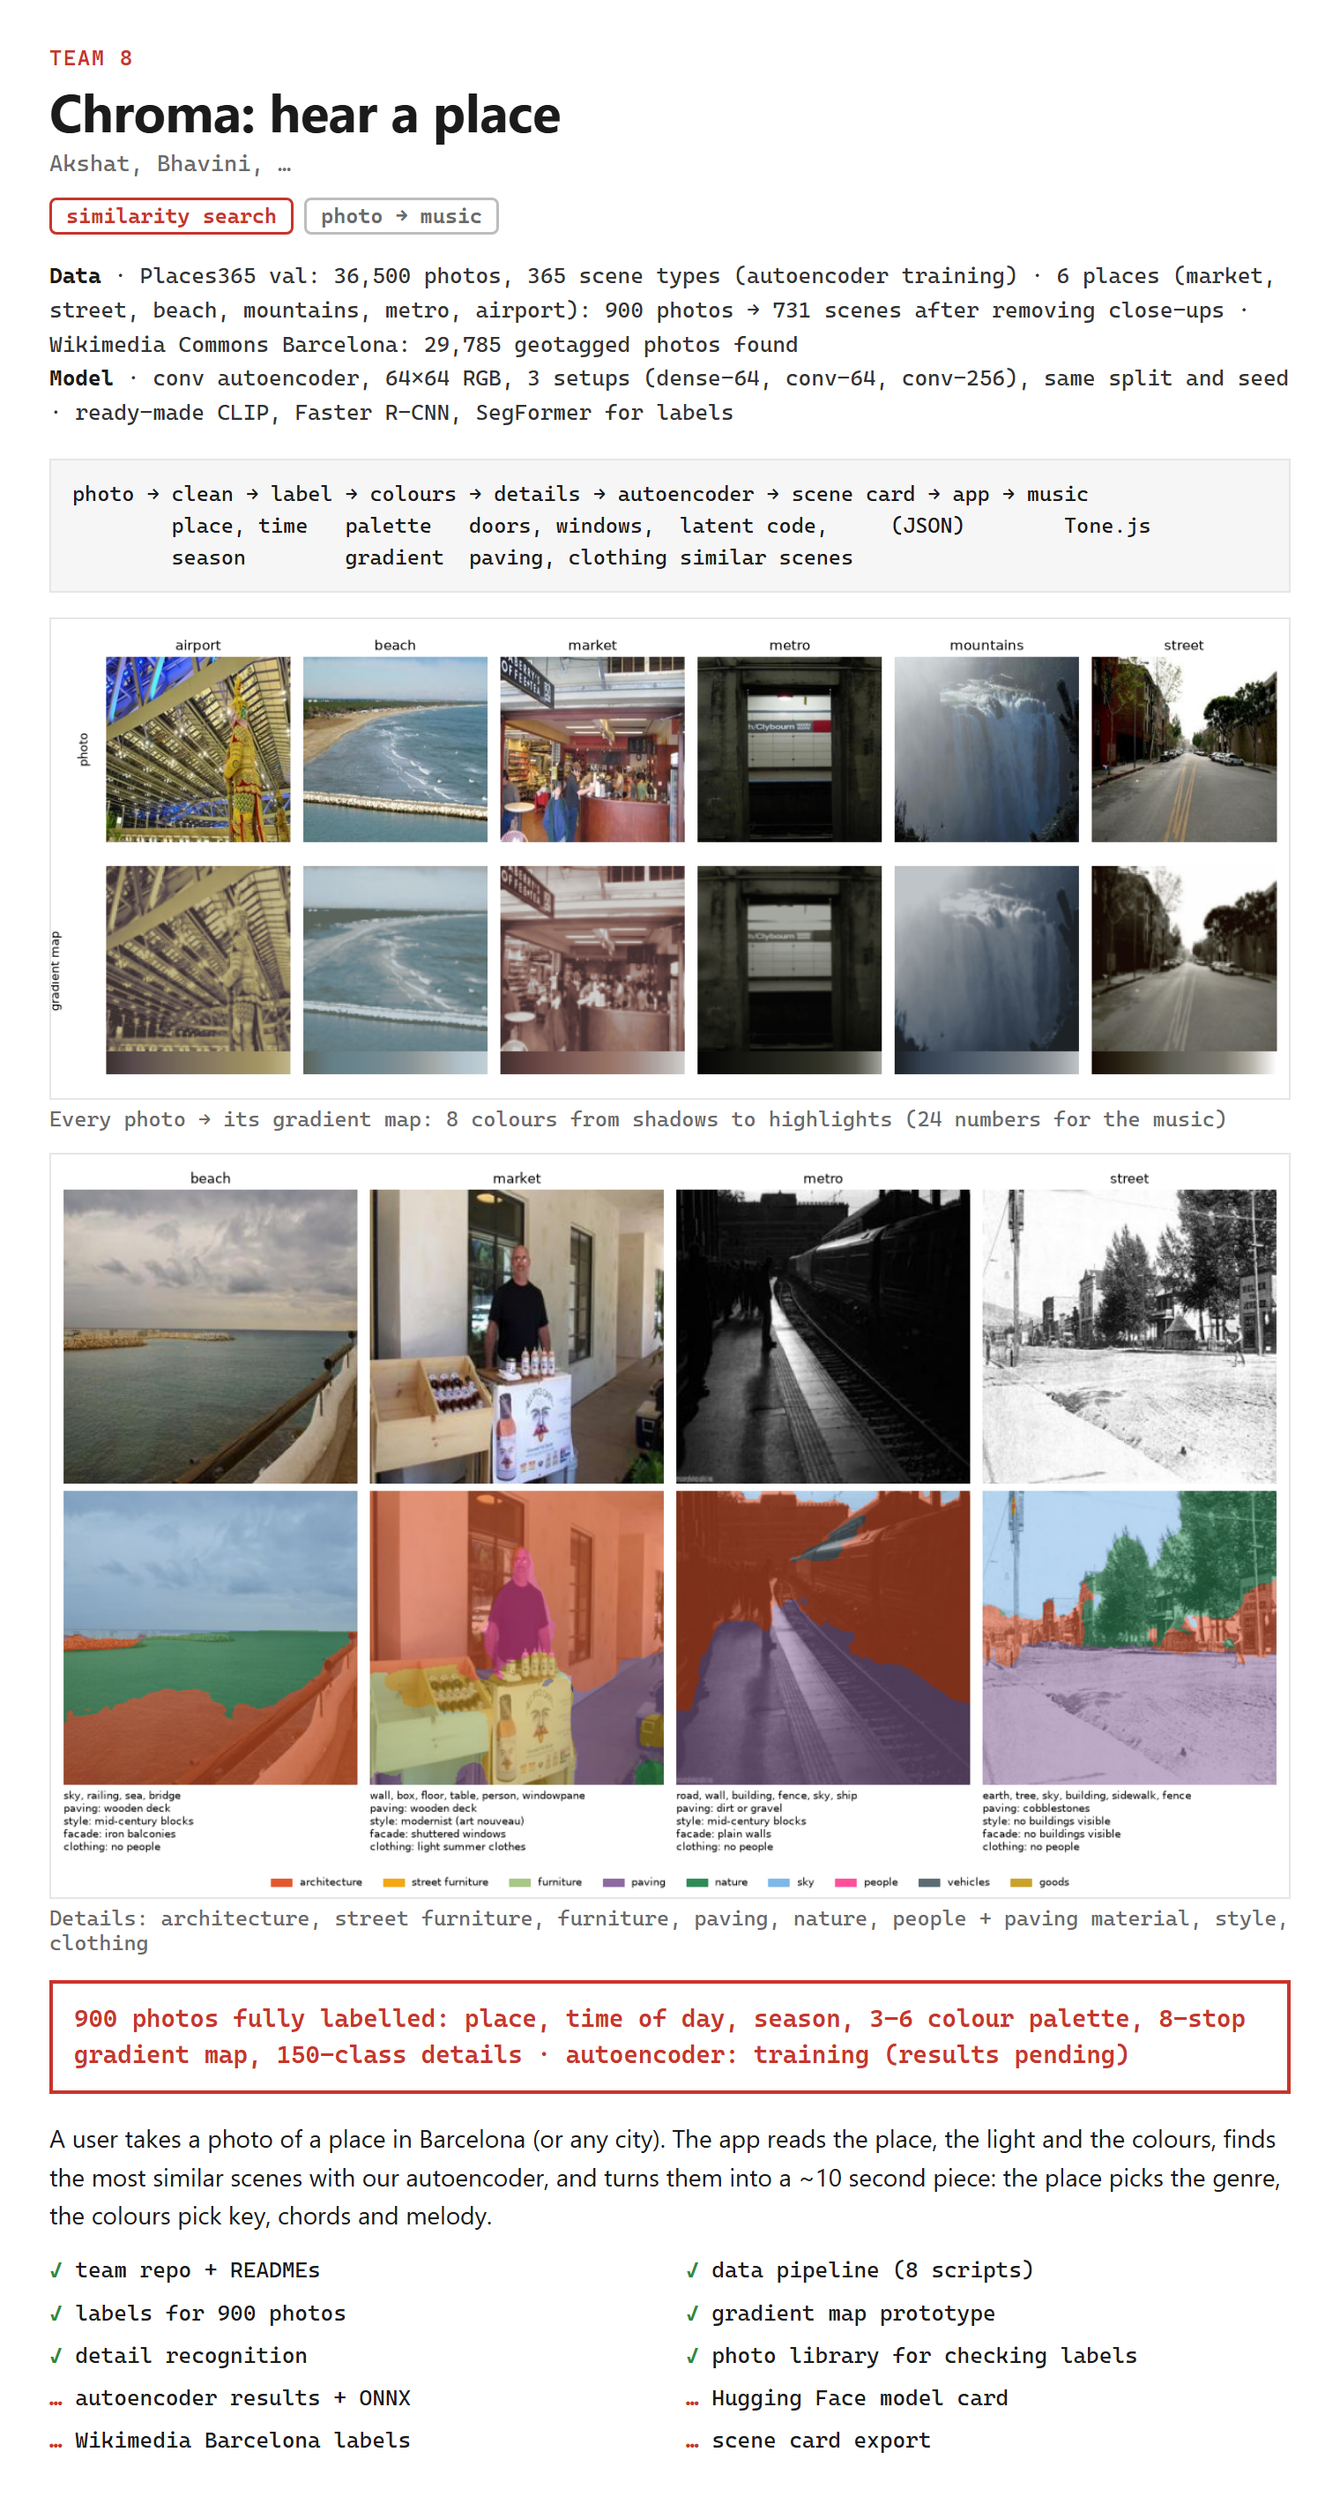
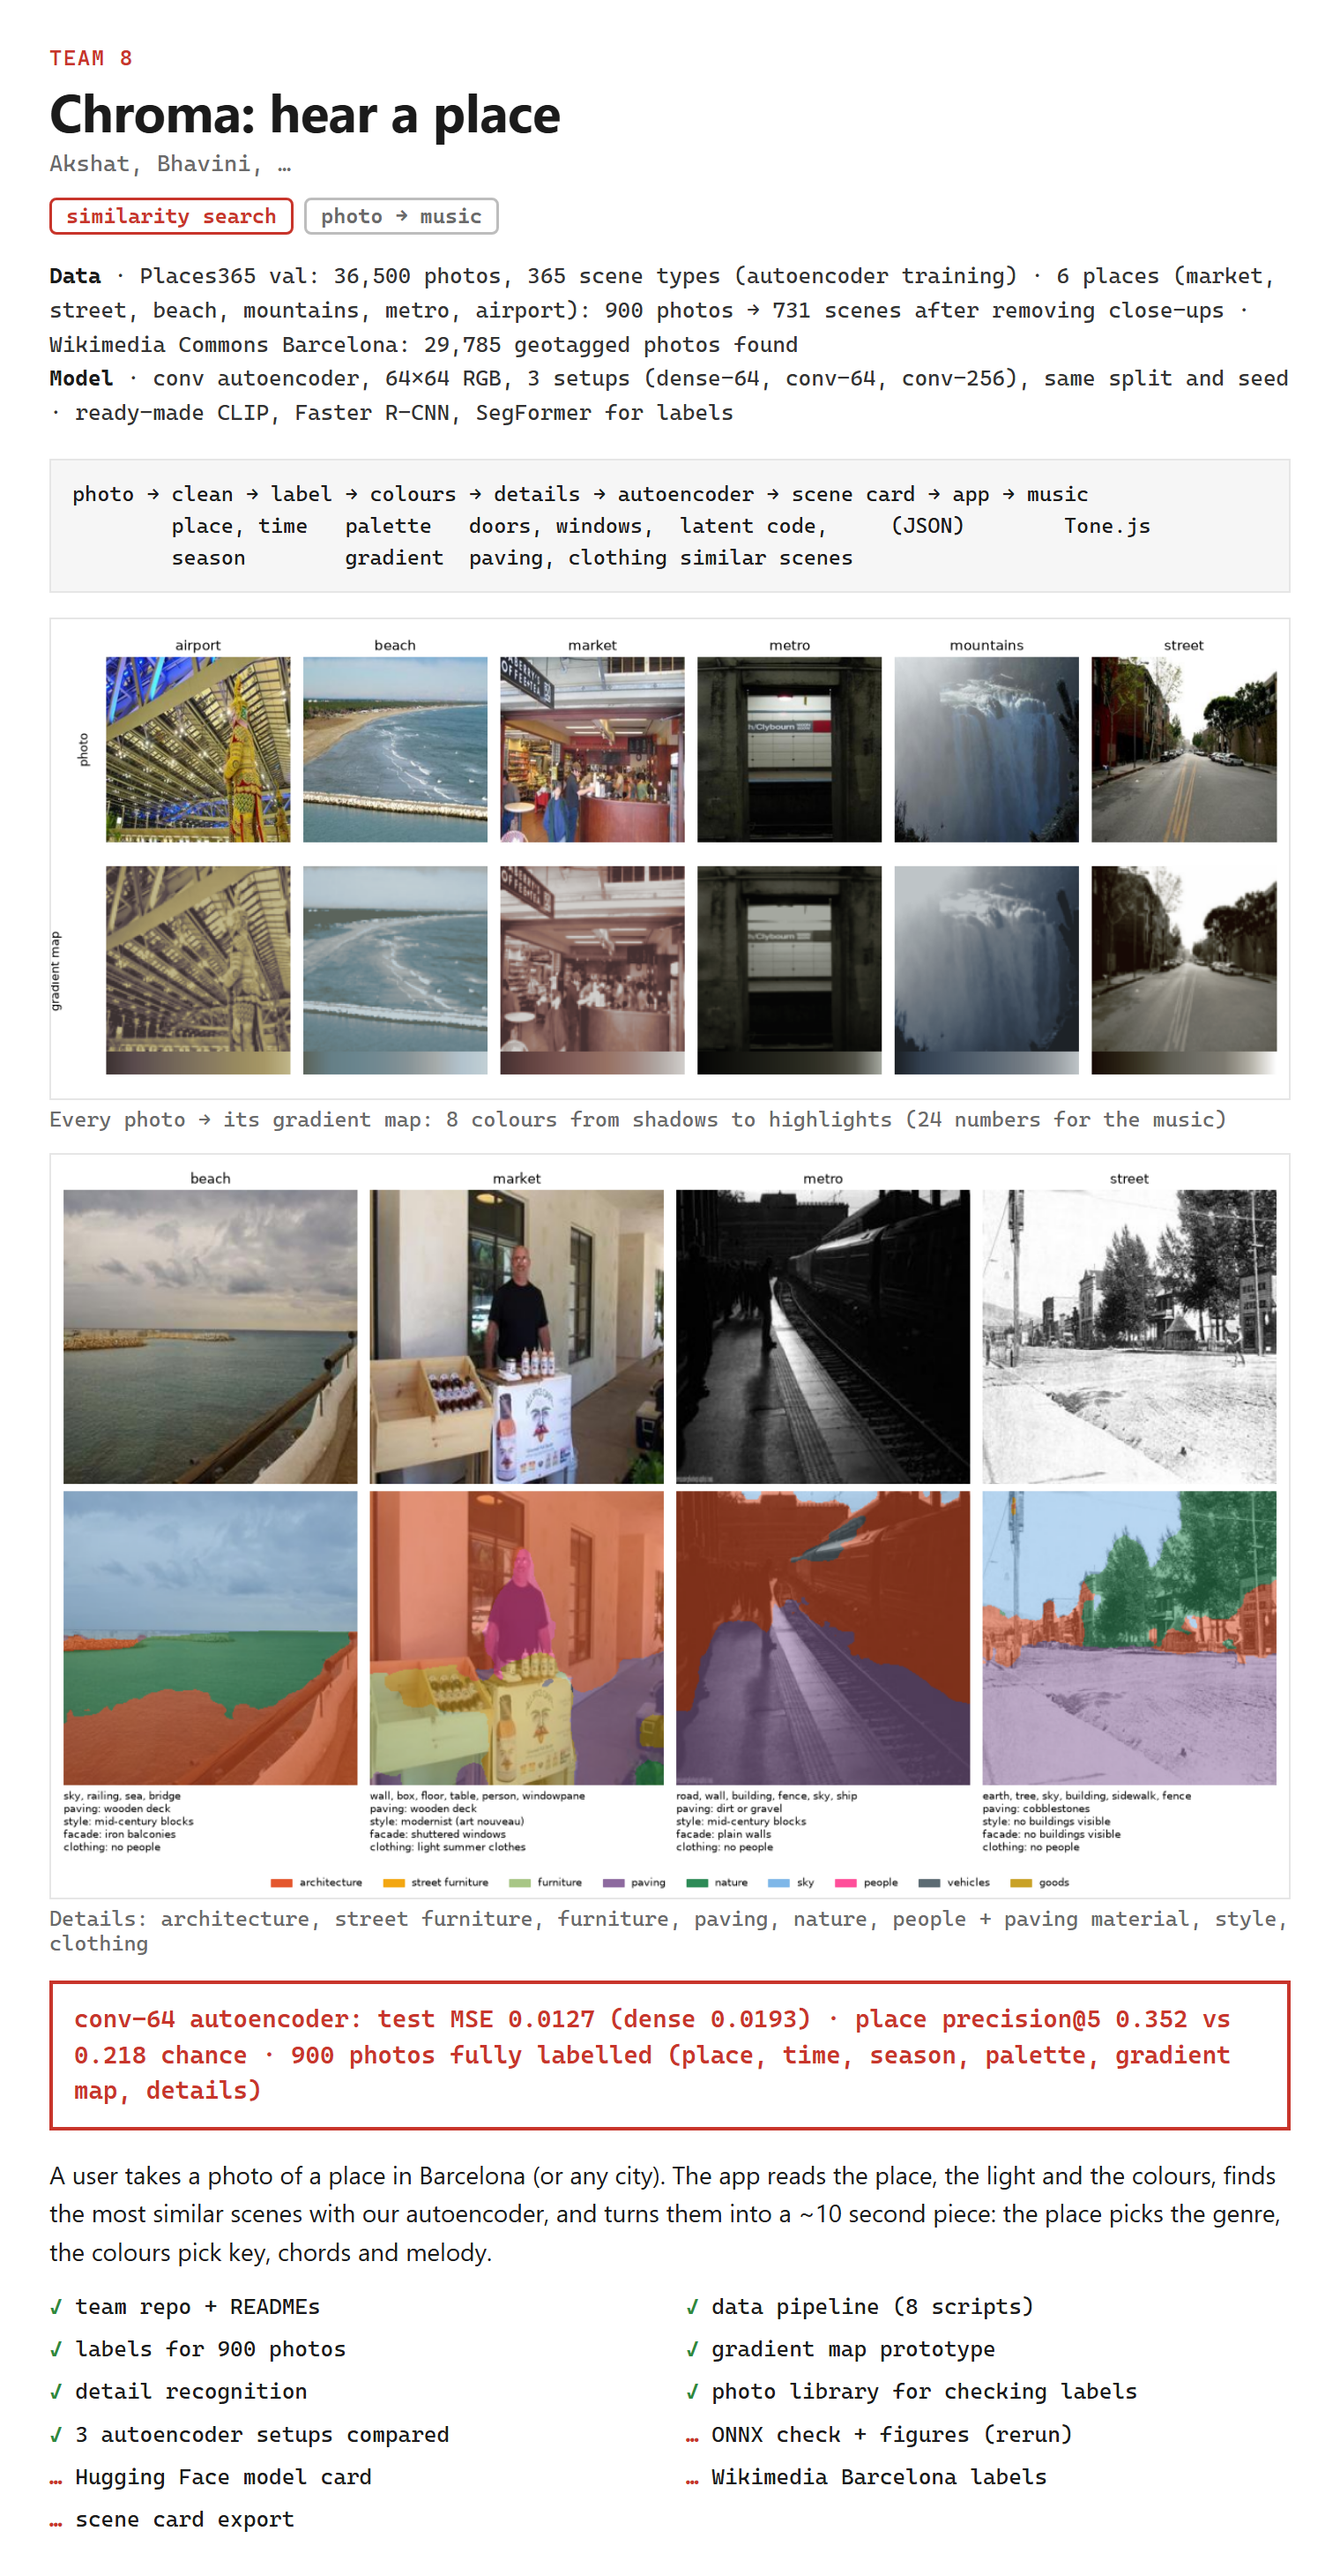
Autoencoder results: three setups compared, conclusion; update Miro card

diff --git a/01_autoencoder/slides/miro_card.html b/01_autoencoder/slides/miro_card.html
@@ -49,7 +49,7 @@ figcaption { font: 12px var(--mono); color: var(--muted); margin-top: 4px; }
     <figcaption>Details: architecture, street furniture, furniture, paving, nature, people + paving material, style, clothing</figcaption>
   </figure>
 
-  <div class="result">900 photos fully labelled: place, time of day, season, 3–6 colour palette, 8-stop gradient map, 150-class details · autoencoder: training (results pending)</div>
+  <div class="result">conv-64 autoencoder: test MSE 0.0127 (dense 0.0193) · place precision@5 0.352 vs 0.218 chance · 900 photos fully labelled (place, time, season, palette, gradient map, details)</div>
 
   <p class="desc">A user takes a photo of a place in Barcelona (or any city). The app reads the place, the light and the colours, finds the most similar scenes with our autoencoder, and turns them into a ~10 second piece: the place picks the genre, the colours pick key, chords and melody.</p>
 
@@ -60,7 +60,8 @@ figcaption { font: 12px var(--mono); color: var(--muted); margin-top: 4px; }
     <div>gradient map prototype</div>
     <div>detail recognition</div>
     <div>photo library for checking labels</div>
-    <div class="todo">autoencoder results + ONNX</div>
+    <div>3 autoencoder setups compared</div>
+    <div class="todo">ONNX check + figures (rerun)</div>
     <div class="todo">Hugging Face model card</div>
     <div class="todo">Wikimedia Barcelona labels</div>
     <div class="todo">scene card export</div>

diff --git a/01_autoencoder/README.md b/01_autoencoder/README.md
@@ -10,8 +10,9 @@ measured and compressed by an autoencoder, so that the app can send the music a
 It works on a photo of **any city**. The model learns from 36,500 photos of places from all over the
 world. **Barcelona** is our home city: the demo photos, our own photos and the Wikimedia set are from here.
 
-> Status (Monday evening): data, labels, gradient maps, detail recognition and the library are done.
-> The autoencoder notebook is training; its results table and figures are added when the run finishes.
+> Status (Tuesday): data, labels, gradient maps, detail recognition, the library and the autoencoder
+> comparison are done. The notebook is being rerun after a fix in the ONNX check (the export left the
+> model in training mode); its figures and the Hugging Face model follow when it finishes.
 
 ---
 
@@ -144,12 +145,27 @@ Split first: 80 % train, 10 % validation, 10 % test, seed 8. All three setups us
 
 | Setup | Encoder | Latent | Parameters | Train time | Val MSE | Test MSE | Place precision@5 |
 |---|---|---|---|---|---|---|---|
-| A · dense-64 | flatten → 512 → 64 | 64 | | | | | |
-| B · conv-64 | 4 conv layers, stride 2 | 64 | | | | | |
-| C · conv-256 | same | 256 | | | | | |
+| A · dense-64 | flatten → 512 → 64 | 64 | 12.7 M | 6 min | 0.0195 | 0.0193 | 0.319 |
+| **B · conv-64** ⭐ | 4 conv layers, stride 2 | 64 | **1.9 M** | 20 min | 0.0129 | 0.0127 | **0.352** |
+| C · conv-256 | same | 256 | 3.5 M | ≈ 30 min* | **0.0079** | **0.0078** | 0.349 |
 
-*Training on the laptop CPU; the numbers, the loss curves, the reconstructions and the conclusion
-are added when the run finishes.*
+Place precision@5: of the 5 most similar scenes, the share with the same place as the query
+(79 test photos of our six places). **Chance = 0.218.** 12 epochs, Adam 1e-3, batch 128, laptop CPU.
+*The first run of C was paused overnight by the laptop sleeping (1,131 min wall time); its compute was about 30 min.*
+
+**What we conclude.**
+- **Convolutions win.** With 7 × fewer parameters than the dense model, conv-64 reconstructs a third
+  better (test MSE 0.0127 vs 0.0193). Convolutions see neighbouring pixels, so they keep horizons,
+  edges and textures; the dense model only keeps blurry colour fields.
+- **A bigger code reconstructs better but does not search better.** conv-256 halves the error again
+  (0.0078), yet its similarity search is not better (0.349 vs 0.352). The extra numbers store detail
+  (textures, small objects) that does not decide what kind of place it is.
+- **We use conv-64**: the best search, the smallest model (7 MB as ONNX, fits Render's free plan), and
+  a 64-number code that is cheap to compare. Its 5 nearest scenes share the query's place 1.6 × more
+  often than chance, although it never saw a place label.
+- **Limit:** 0.35 means most neighbours are still another place. The autoencoder groups photos by
+  light, colour and layout (a bright beach finds bright snowy mountains). That is useful for the music,
+  which is driven by light and colour; for the place itself the app uses CLIP.
 
 **The use: similarity search.** Every scene of the library gets its latent vector. For a new photo
 the app returns the closest scenes (cosine similarity) with their place, time, season and colours.
